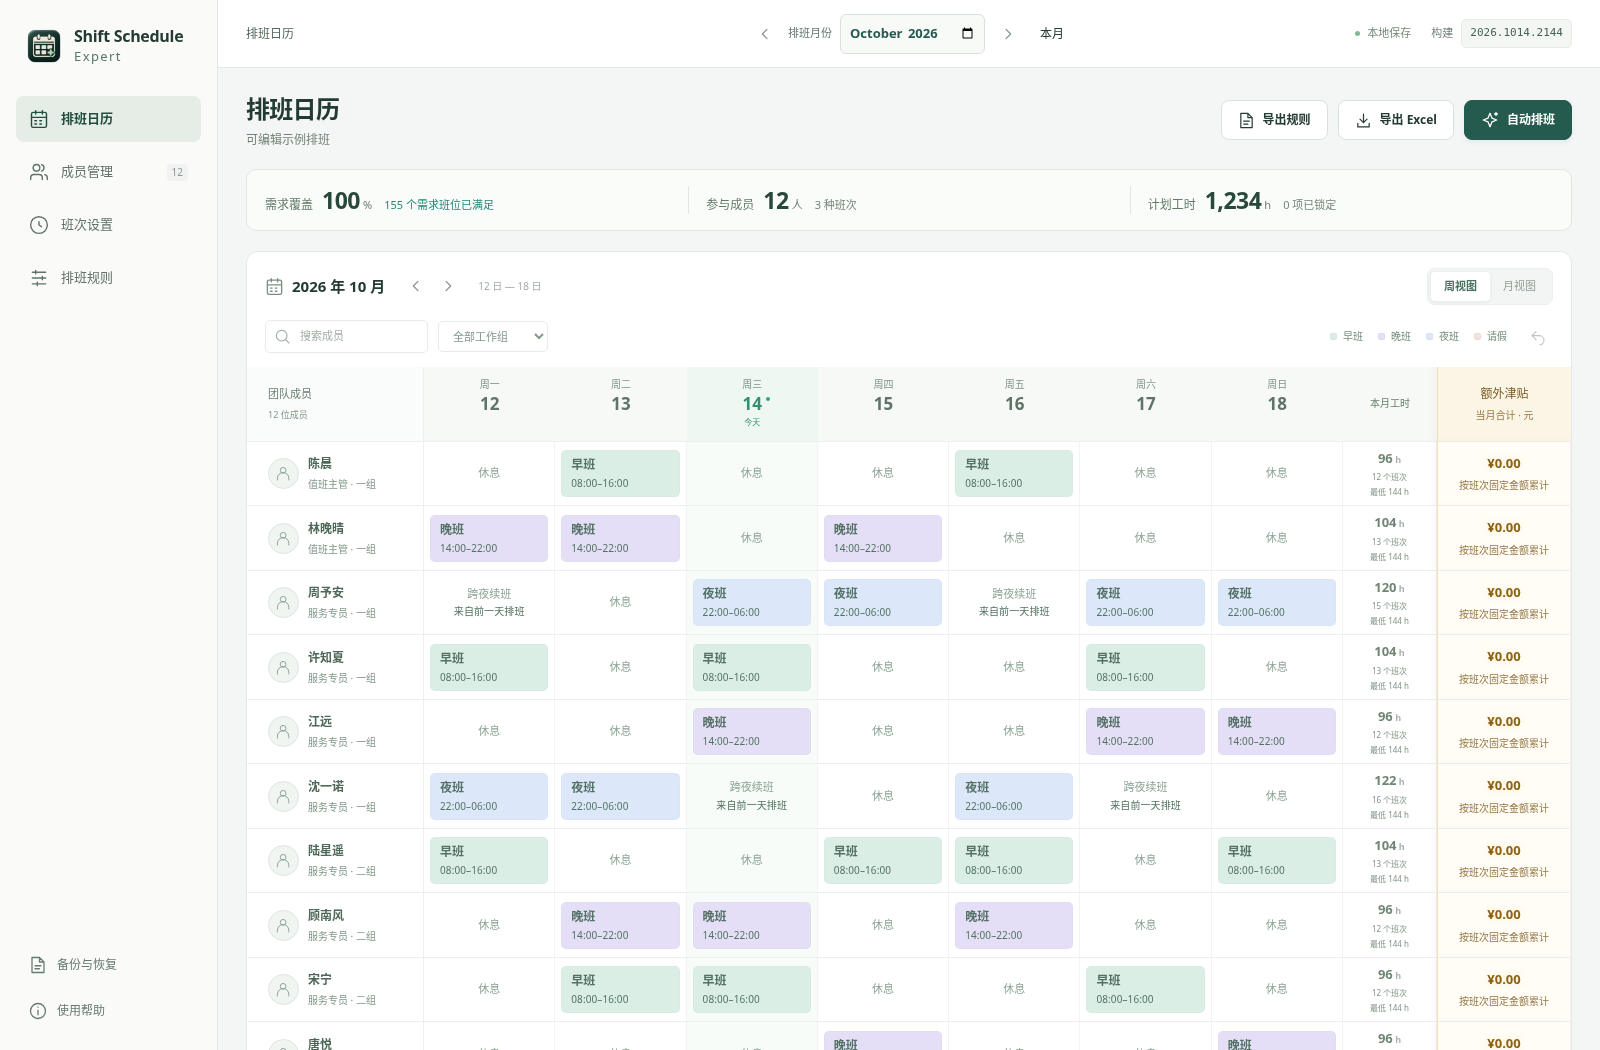
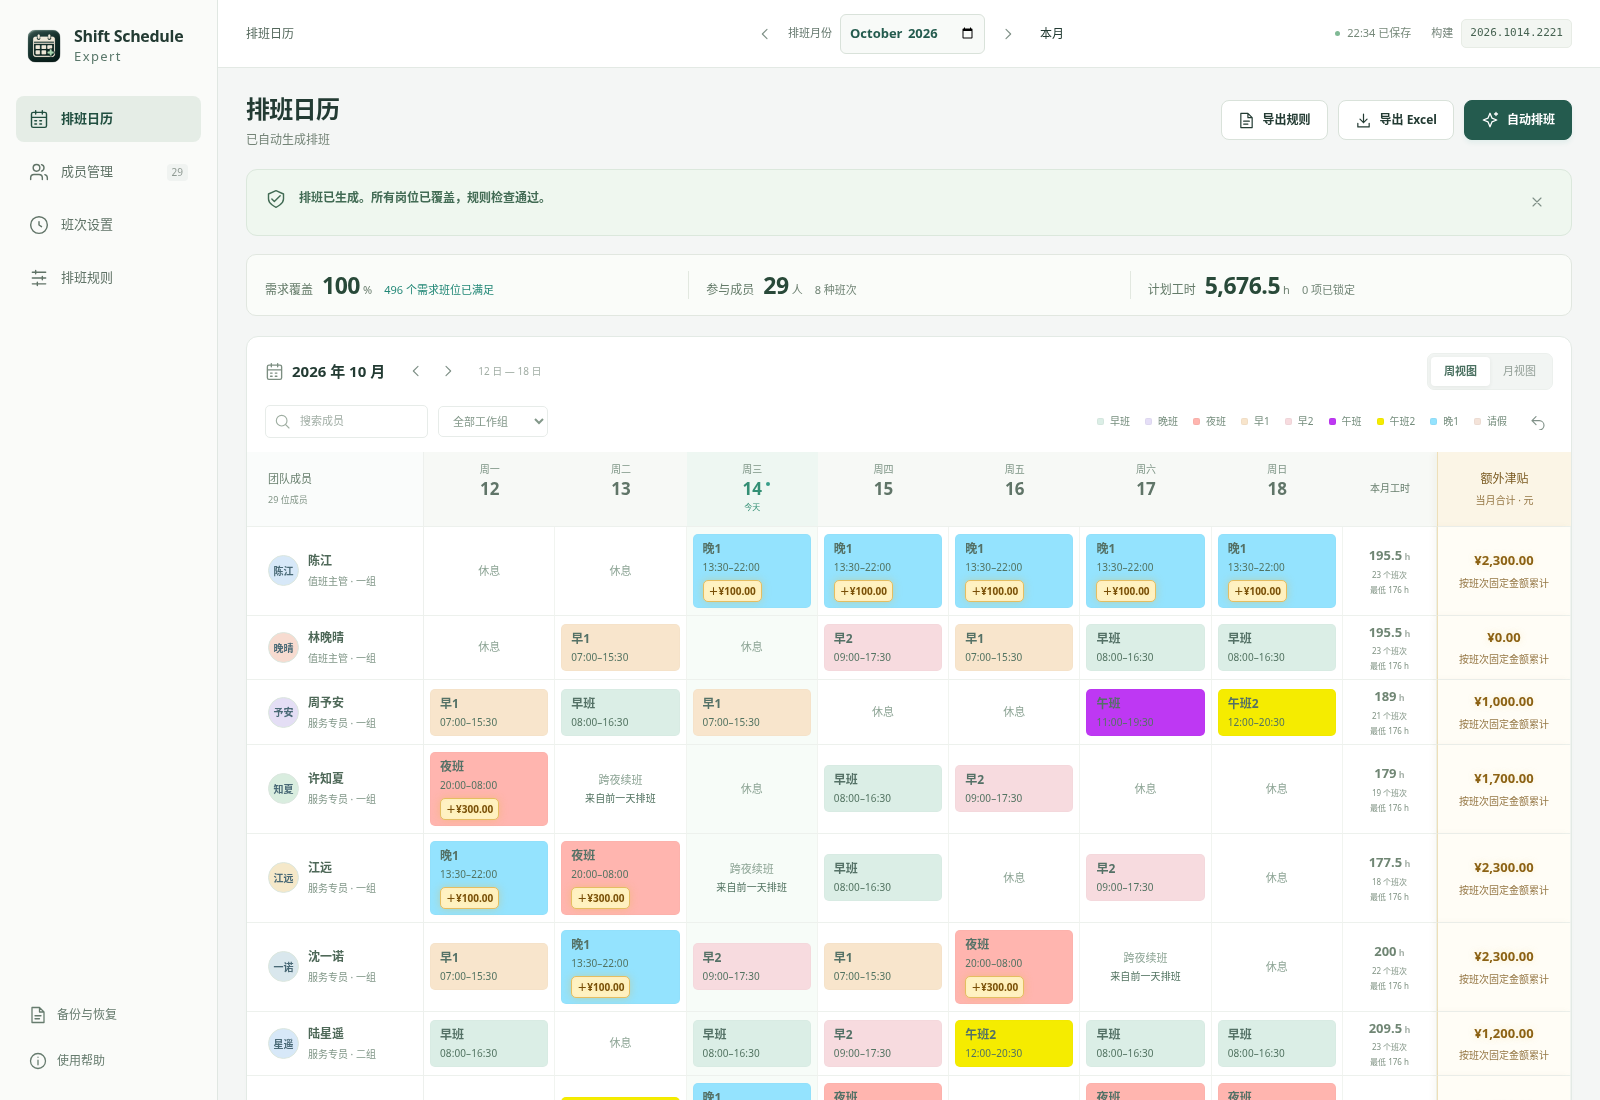
Show real 29-member schedule and simplify README

diff --git a/README.md b/README.md
@@ -1,97 +1,28 @@
 # Shift Schedule Expert · 通用员工排班
 
-独立的 Vue / TypeScript / Vite 排班应用，适合早晚班、请假安排和公平轮班。同一套界面支持静态网页和 Tauri 桌面版：桌面版内置 Python OR-Tools CP-SAT 求解器，在本机计算，不需要业务服务器，也不依赖其他游戏项目或 GameLink SDK。
+按月管理成员、班次与休假，自动排班、统计班次津贴，支持 Excel、CSV 导出和 JSON 备份。桌面版可离线使用。
 
-## 网页启动与构建
+[下载 Windows / Intel Mac / M 芯片 Mac 版](https://github.com/ecojust/shift-planner-desktop/releases/latest)
 
-在本项目 `shift-planner` 根目录运行（Node.js 版本见 `package.json`）：
+![29 位成员、8 种班次的 2026 年 10 月排班](docs/screenshots/calendar.png)
 
-```sh
-npm ci
-npm run dev
-# 打开终端显示的本地地址
-npm run build
-npm test
-```
+*使用 29 位成员、8 种班次的配置，重新生成的独立 10 月示例。*
 
-构建产物位于 `dist/`，可部署到静态网页服务器。请通过 HTTP 服务访问，不要直接双击构建目录的 HTML。
+## 支持的排班规则
 
-## Windows / macOS 桌面版
+| 规则 | 说明 |
+| --- | --- |
+| 每日人数 | 每班选择「最少人数」或「固定人数」；最少可增派，固定须恰好满足。 |
+| 班次资格与请假 | 指定每人可上的班次及请假日期，每人每天最多一个班次。 |
+| 月／周工时 | 设置月最低、周最低和周最高工时；月最低可跟随月参考工时。 |
+| 跨月工时 | 跨夜工时按实际日期拆分；已知跨月安排计入，边界周最低按折算与整周剩余缺口取较小值。 |
+| 休息与连续工作 | 设置最短班间休息时间、最多连续工作天数。 |
+| 班次不相连 | 同一成员不能连续两天上指定班次。 |
+| 周班次限制 | 指定班次每人每个自然周最多若干次；跨月计入，边界周次数上限不折算。 |
+| 同班互斥 | 指定成员不能在同一天上同一个班，可限定适用班次。 |
+| 星期权重 | 设置团队各星期的班次数占比，按整班次数计算配额。 |
+| 锁定安排 | 保留指定班次或休息，再生成其余安排。 |
 
-开发构建需安装 Node.js、Python 3.12、Rust stable 及目标系统的原生构建工具，完整准备说明见 [桌面构建指南](docs/DESKTOP_BUILD.md)。在对应系统上运行：
+满足规则后尽量均衡工作量与各班次次数。生成失败或取消时保留原表。
 
-```sh
-npm ci
-npm run desktop:dev
-# 生成目标系统的安装包
-npm run desktop:build
-```
-
-`desktop:dev` 启动前只检查并按需准备项目内的 `solver/.venv`，运行 `--info` 和小型求解自检，然后直接使用该环境中的 Python 执行求解源码，**开发启动不再冻结或运行单文件求解器**。已有同架构、依赖完整的环境会复用，更新源码不需要每次重新下载整套依赖。
-
-`desktop:build` 才会检查并按需生成 PyInstaller `onedir` 运行目录，把 Python、OR-Tools 和关联库作为 Tauri 资源完整打进安装包。`desktop:prepare` 可手动准备发行运行目录，不是开发启动的必要步骤。最终使用者无需安装 Python。Windows 和 macOS 分别原生构建；macOS Intel 与 Apple Silicon 分别生成对应架构的包。
-
-桌面版通过 Tauri 调用随包分发的本地求解进程，网页仍使用浏览器 Worker 中的启发式排班。桌面引擎不可用时会显示错误，不会悄悄换成网页算法。求解支持取消，未完成或失败时保留原表；桌面 Excel、CSV 和 JSON 导出使用系统文件保存对话框。
-
-Windows x64、Intel Mac 和 M 芯片 Mac 已完成原生构建及最终资源目录内的求解验证：[下载安装包和源码](https://github.com/ecojust/shift-planner-desktop/releases)。已发布版本的三个平台曾完成 12 人整月排班：155 个班位、零缺员、独立规则检查零问题。本轮新增班次不相连与每人每周班次次数上限；新规则及界面已在源码验证，安装包需重新构建后才包含本轮改动。Windows 已验证 NSIS 静默安装；桌面图形界面交互、Mac 人工安装/卸载及文件对话框尚未实测，完整范围见 [验证记录](docs/VERIFICATION.md)。Mac 要求 macOS 14+，未进行 Apple Developer ID 签名或公证。
-
-在 GitHub Actions 手动运行 **Build desktop installers**，会并行构建 Windows x64、Intel Mac 和 M 芯片 Mac；三个平台全部测试和包内求解验证通过后，自动发布包含三个安装包、对应源码和 SHA256SUMS 的 GitHub prerelease。JSON 验证报告留在 Actions Artifacts 中，保留 14 天。只需要 M 芯片时，也可运行 **Build macOS Apple Silicon installer**。各平台最新验证范围见下方构建说明。
-
-若遇到引擎启动问题，可运行 `npm run solver:doctor`，报告保存到 `solver/build/diagnostics-latest.json`。它对比项目 Python 与已打包运行目录的加载及小型求解，不读写员工数据，也不联网。升级时请同步覆盖 `scripts/`、`src-tauri/` 的源码与配置、`src/`、`solver/` 源码以及项目清单，保留正确架构的 `solver/.venv` 和应用本地数据；详见 [更新与诊断](docs/DESKTOP_BUILD.md)。
-
-1.1.1 补齐 Mac App 和内置 Python 框架的签名资源封印，修复旧包严格验签失败。仍未进行 Apple 公证，首次启动可能需要在“系统设置 → 隐私与安全性”对本应用选择“仍要打开”。细节见 [Mac 打包说明](docs/DESKTOP_BUILD.md#mac-提示应用已损坏)。
-
-## 功能与数据
-
-- 顶部固定的月份选择器在排班日历、成员、班次和规则面板共用，支持上／下月和返回本月；请假弹窗的浏览月份独立。
-- 成员卡片直接修改月／周工时并点选可上班次，校验通过后自动保存；基本资料通过弹窗编辑，请假使用日历弹窗，支持跨月多选、保存与取消。
-- 未上传头像或图片无法显示时，使用姓名末两字与成员底色；可在资料弹窗上传、更换或移除图片，成员卡片和日历同步显示。头像缩小后随本地存档和完整 JSON 备份保存，不进入求解器调试数据。
-- 新员工周工时默认为 40–48 小时；修改周工时需使上限至少比下限多 8 小时，两个值一起校验，输入无效时保留原值。旧成员不自动改值，旧区间也不妨碍修改月工时、班次资格和姓名。
-- 月参考工时默认按所选月份工作日 × 8 计算，包含节假日、调休补班与手动日历；支持按月覆盖，个人月最低默认跟随，也可自定义。
-- 自定义班次名称、时段、颜色、每日最少或每日固定人数（二选一）及每人每班的固定津贴，支持跨午夜的晚班。
-- 班次设置按开始时间从早到晚排列；人数模式用文字、颜色与 ≥ / = 标记区分，修改时间后自动重排。
-- 排班规则分「个人规则」和「团队规则」：个人规则按每人检查休息、连续工作和班次次数；团队规则管理星期权重及同班互斥。两个分类独立保存，切换分类保留待保存的修改。
-- 设置最短休息间隔、连续工作天数和团队每周上班权重；选择星期并设置合计百分比，硬性配额不满足时保留原表。
-- 设置员工互斥组，避免组内员工同一天排同一个班次；可限定班次，未选择班次表示应用于全部班次。
-- 逐条添加「班次不相连」和「周班次限制」：同一成员不能连续两天上指定班次；指定班次每人每个自然周最多 N 次，按周一至周日计算，跨夜按开始日计一次，不足整周不折算，计入已知跨月安排。两类规则都参与桌面求解、网页排班和手动排班检查。
-- 生成日历排班，并允许手动调整、锁定班次与锁定休息。
-- 开始生成后，原弹窗直接显示当前阶段、总耗时、阶段耗时和搜索时限，并可取消；完成检查前保留原表。每日覆盖旁的说明图标支持悬停、键盘聚焦和手机点按，解释人数合计及最少／固定人数的区别。
-- 显示人员覆盖缺口及冲突提示，提供员工工时统计。
-- 导出真正的 `.xlsx` Excel 文件，包含排班表、班次说明与津贴明细；另支持 UTF-8 CSV。
-- 按实际排班次数累计固定津贴，每天以金色金额显示，右侧汇总个人月总额；津贴不随工时、工资、倍率或节假日变化。
-- 自动保存在当前浏览器，也可导入或导出 JSON 备份。
-- 排班日历可「导出规则」为求解器直接接受的 JSON；失败后可导出当次输入，保留原时限、种子、锁定与跨月安排，见[调试与复现说明](docs/solver-debug.md)。
-- 无解时显示已查明的具体人员、日期、班次及冲突数值，并可跳转到相应设置。复杂约束组合采用限时分析；定位未完成会明确提示，超时不当作无解。
-- 排班成功或失败的结果提示只在排班日历显示；进入设置时隐藏，返回日历后可继续查看结果和导出失败当次规则。
-
-班次人数支持两种模式，各班可分别设置：**每日最少人数**允许增派以满足员工月／周最低工时；**每日固定人数**要求恰好等于设置值，不增派。设为 0 时，最少模式仍可安排人员，固定模式暂停该班自动安排。旧备份未填写人数模式时按最少模式处理；固定人数超额的手动或锁定安排会显示冲突。
-
-网页算法使用启发式方法，不保证找到可行方案或全局最优解；人数或硬规则不满足时不替换原表。网页和桌面自动排班均严格满足两种人数规则，不提供“允许缺编”选项。高级选项仅调整等待时间。公平性目标包括按工时上限归一的工作量差和各班次次数差；旧版周末均衡选项已移除。上班权重的星期配额同样是硬约束，具体计算见下方说明。
-
-成员工时和可上班次保持直接编辑并自动保存。月参考的长说明、权重计算示例和自动排班高级选项默认折叠；津贴在班次设置中调整，直接在排班日历查看每日金额和个人月汇总。成员基本资料与班次新建／编辑使用弹窗，校验提示在弹窗内显示，保存或取消后回到原按钮。窄屏班次弹窗独立滚动内容，底部操作保持可见。个人与团队规则分别保存，切换分类保留草稿。
-
-桌面求解明确区分最优方案、可行方案、已证明无解，以及超时尚未找到方案；超时不等于无解。结果还会通过前端独立规则检查，检查失败不会覆盖原表。锁定或手动安排仍可能形成冲突，请检查结果后确认发布。切换月份时保留其他月份已有排班，让已知的跨月休息、连续工作及自然周工时参与约束判断；没有录入的历史排班无法推断。
-
-互斥组至少包含 2 名员工，规则针对同日同班，不会禁止他们在同一天分别上早班和晚班。手动安排休息时，可选择锁定；未锁定的休息在再次生成时允许重新分配，锁定休息会保留。
-
-跨午夜班次以开始日期归属日历格子；排班表、Excel 和最低工时检查均按实际时段归属自然月，上月夜班进入本月的部分计入，月底跨出部分不计。固定津贴全部归属班次开始日期，跨夜、跨月均只计一次，不按小时拆分。周最低按周一至周日计算，不足完整周先按当月天数 / 7 折算，再与整周最低扣除已知月外工时后的缺口取较小值；上月部分已排满整周最低时，本月这一周不再重复要求最低工时。周最高仍包含完整自然周内已知的跨月排班，月最低独立检查。请假不自动降低最低工时，可为个人设置自定义值。具体口径见[工时设置说明](docs/HOURS.md)。上班权重按团队班次数计算，不按人数去重或工时占比；边界周保留原星期份额，不重新归一，计算与示例见[上班权重说明](docs/WEEKDAY_WEIGHTS.md)。
-
-日历使用固定版本 lunar-typescript 1.8.6 的离线数据，用于日期标签和月参考工时；日期类型不会改变班次津贴。当前完整识别 2025、2026 年，库未覆盖年度等无法确定的情形标记「待核对」，可手动确认工作日安排。新年度数据需升级依赖并重新构建，不会实时联网补齐。手动日历优先，并保留在 JSON 备份中。
-
-例如夜班津贴设为 50 元，一位成员当月排 6 次夜班，就领取 300 元。休息不发放，跨夜不会重复领取；调整班次津贴后，当月排班表和 Excel / CSV 导出同步重新计算。没有单独的日期津贴设置，旧备份中的工资和倍率字段不参与计算。具体口径见[津贴计算说明](src/PAYROLL.md)。
-
-## 本地保存与备份
-
-数据保存在 `localStorage` 的 `shift-planner:v1` 项下，网页与桌面 WebView 各自保存在当前本地环境，不会自动同步。清除站点或应用数据、无痕窗口结束、切换设备或更换访问域名都可能导致无法继续读取原记录；请定期导出 JSON 备份，也可用备份在网页和桌面版之间迁移。
-
-导入限制 2 MB、200 名员工、24 种班次，校验有效日期、时间、数值边界、重复排班及员工/班次引用。导入失败时应保留当前数据。Excel 文本采用明确的字符串类型；CSV 对可能触发公式的文本增加保护。CSV/Excel 用于查看或交付，恢复编辑请使用 JSON 备份。
-
-## 需求来源
-
-用户提供的微信文章及视频在当前环境返回 403，未能读取。本应用根据用户确认的「通用员工排班：早晚班、休假、公平轮班」及后续补充的自定义规则、Excel 导出、固定班次津贴需求实现，不声称复刻文章或视频内容。
-
-另核对了 PerfectTablePlan 的官方遗传算法介绍，可参考其锁定、软偏好与限时优化的产品思路，详见 [PerfectTablePlan 参考记录](docs/PERFECTTABLEPLAN_REFERENCE.md)。本项目的桌面求解核心仍为 OR-Tools CP-SAT，没有改用遗传算法，也不声称复用了该软件的实现。
-
-本次桌面构建、真实求解及界面验证范围详见 [验证记录](docs/VERIFICATION.md)。
-
-右上角构建号采用北京时间 `YYYY.MMDD.HHmm`，在开发服务启动或编译时固定。同次 CI 的三个平台及失败重跑使用同一个构建号。可设置 `SHIFT_FLOW_BUILD_VERSION` 复现指定编号，格式或日期不合法会拒绝构建。安装包版本与构建号分别记录。
+[开发与构建](docs/DESKTOP_BUILD.md) · [工时说明](docs/HOURS.md) · [星期权重](docs/WEEKDAY_WEIGHTS.md) · [验证记录](docs/VERIFICATION.md)

diff --git a/docs/VERIFICATION.md b/docs/VERIFICATION.md
@@ -1,5 +1,17 @@
 # 桌面构建与求解验证记录
 
+## 2026-10-14：README 实际排班示例
+
+按用户确认，用提供的 29 位成员、8 种班次及原工时、资格、时段、人数、津贴、11 小时休息和最多 6 天连续工作配置，重新生成独立的 2026 年 10 月示例。由于原消息中间历史记录被截断，本次经用户明确同意不包含原有跨月安排，不作为原始完整 JSON 的逐字复现。
+
+原随机种子 `646863402`，严格满足人数（`allowPartial: false`）。15 秒首次求解为 `UNKNOWN`；保持规则不变后，通过实际界面选择 60 秒，真实 Python OR-Tools 9.14.6206 返回 `FEASIBLE`，656 条排班、零缺员，496 个需求岗位全部覆盖。结果未证明班次总数最少或公平性最优。
+
+Chromium 使用受控 Tauri 传输桥调用真实 Python CLI，结果通过应用独立检查后才写入；截图未改动班表内容或隐藏冲突。界面构建号 `2026.1014.2221`，当月计划工时 5,676.5 小时、固定津贴 18,600 元，无浏览器页面错误。本次截图验证不替代原生窗口与安装包验证。
+
+独立 Python 核验不调用产品求解器或校验器：逐日人数、资格、单人单日唯一班次、29 人月最低、145 个人／自然周工时、休息及连续工作全部通过。个人月工时 177.5–211 小时，最短休息 11 小时、最长连续工作 6 天；月末夜班另有 8 小时归属 11 月，每日津贴均为 600 元。
+
+README 主图为自然周视图 `docs/screenshots/calendar.png`。完整请求、求解响应、应用存档、主图、整月 29 人／31 天分段截图与报告保存在忽略的 `test-results/readme-user-example/`。
+
 ## 2026-10-14：班次新建与编辑弹窗（源码验证）
 
 班次新建、编辑统一使用弹窗，保留原有草稿、字段、校验与保存逻辑。错误在弹窗内显示并定位；关闭、取消及 Escape 不保存草稿，保存或取消后焦点返回原按钮。弹窗打开时锁定背景滚动，内容可独立滚动，标题和底部操作固定。
